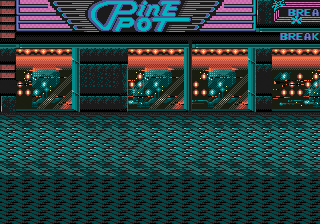
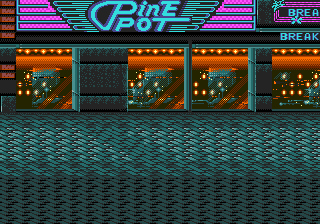
Added working background and foreground

diff --git a/src/main.c b/src/main.c
@@ -1,13 +1,23 @@
 #include <genesis.h>
-#include <resources.res>
+#include <resources.h>
 
 int main()
 {
 
 
 u16 ind = TILE_USER_INDEX;
+
 PAL_setPalette(PAL0, bg1.palette->data, DMA);
-/*VDP_drawImageEx(BG_B, &bg1, TILE_ATTR_FULL(PAL0, FALSE, FALSE, FALSE,ind), 0,0,FALSE,TRUE);*/
+
+VDP_drawImageEx(BG_B, &bg1, TILE_ATTR_FULL(PAL0, FALSE, FALSE, FALSE,ind), 0,0,FALSE,TRUE);
+
+ind += bg1.tileset->numTile;
+
+PAL_setPalette(PAL1, fg1.palette->data, DMA);
+
+VDP_drawImageEx(BG_A, &fg1, TILE_ATTR_FULL(PAL1, FALSE, FALSE, FALSE,ind), 0,0,FALSE,TRUE);
+
+ind += fg1.tileset->numTile;
 
 	while(1)
 	{        

diff --git a/res/resources.h b/res/resources.h
@@ -1,0 +1,7 @@
+#ifndef _RES_RESOURCES_H_
+#define _RES_RESOURCES_H_
+
+extern const Image bg1;
+extern const Image fg1;
+
+#endif // _RES_RESOURCES_H_
